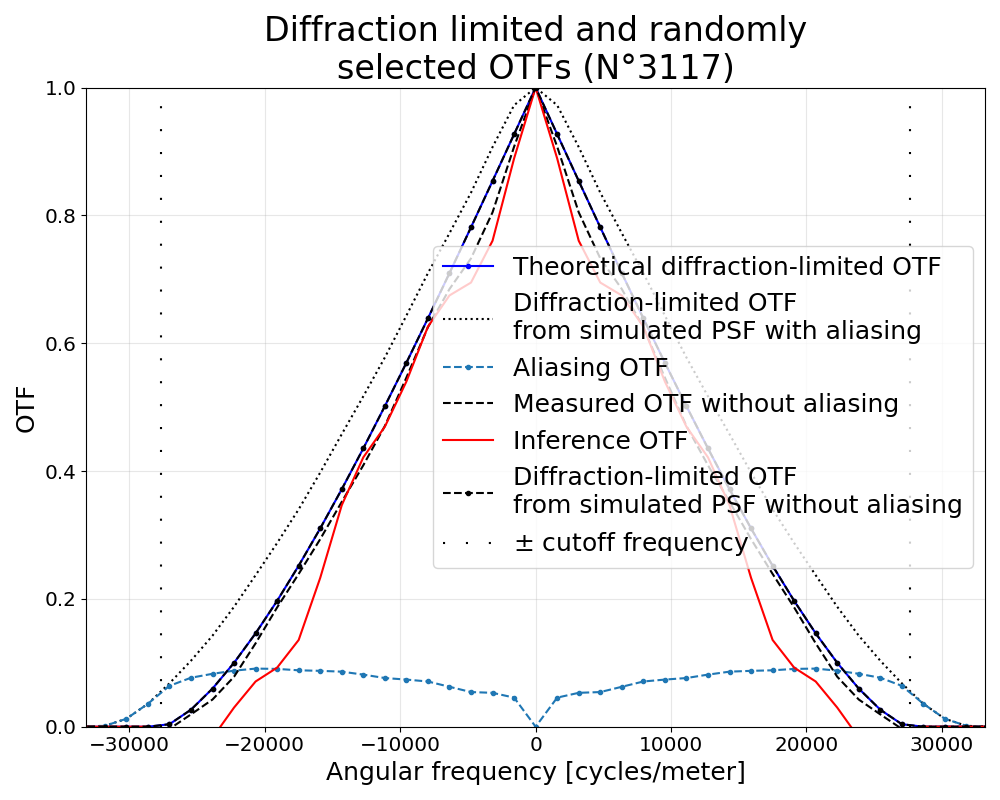
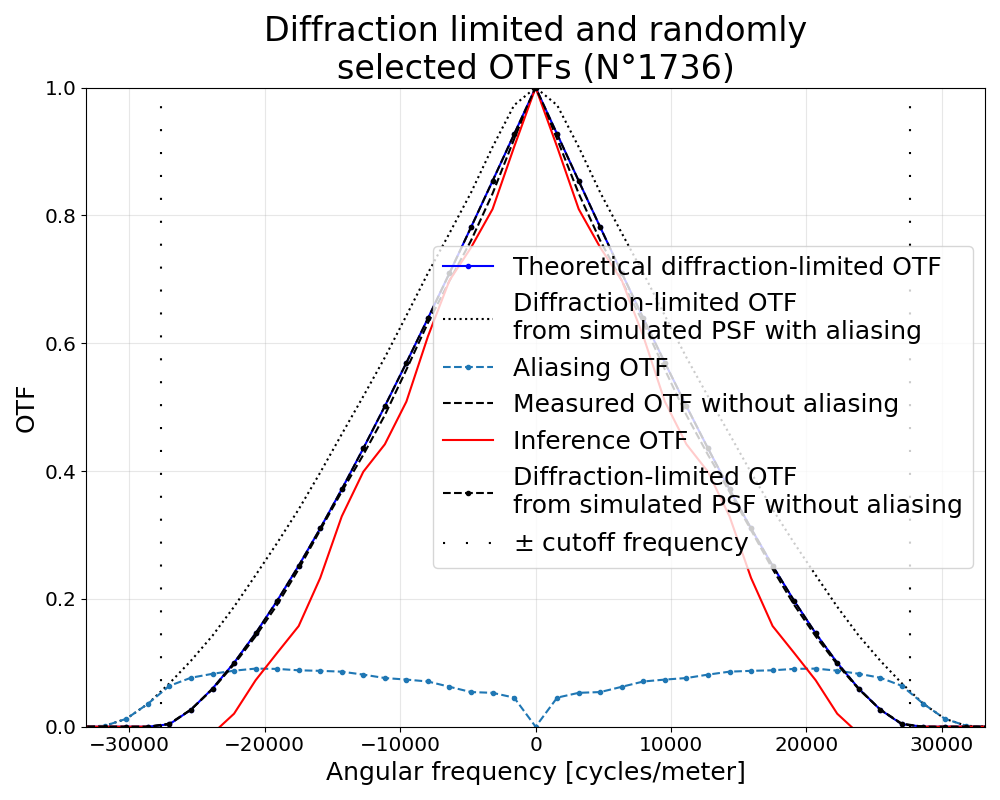
corrected for aliased OTF trainning

diff --git a/postprocessing_otf.py b/postprocessing_otf.py
@@ -92,10 +92,10 @@ for dataset_number in range(dataset_numbers):
     OTF_ipsf_difflim = np.abs(myfunctions.otf_from_psf(padded_ipsf_difflim))
     OTF_tel = myfunctions.telescope_otf(nu_n_grid)
     OTF_aliasing = OTF_ipsf_difflim - OTF_tel
-    # OTF_truths = (truths[...,:,:] - OTF_aliasing)*FREQ_MASK
-    OTF_truths = truths[...,:,:]
-    # OTF_inferences = (inferences[...,:,:] - OTF_aliasing)*FREQ_MASK
-    OTF_inferences = inferences[...,:,:]
+    OTF_truths = (truths[...,:,:] - OTF_aliasing)*FREQ_MASK
+    # OTF_truths = truths[...,:,:]
+    OTF_inferences = (inferences[...,:,:] - OTF_aliasing)*FREQ_MASK
+    # OTF_inferences = inferences[...,:,:]
 
     inference_Strehls = np.sum(OTF_inferences, axis=(-2, -1)) / np.sum(OTF_tel*FREQ_MASK)
     truths_Strehls = np.sum(OTF_truths, axis=(-2, -1)) / np.sum(OTF_tel*FREQ_MASK)
